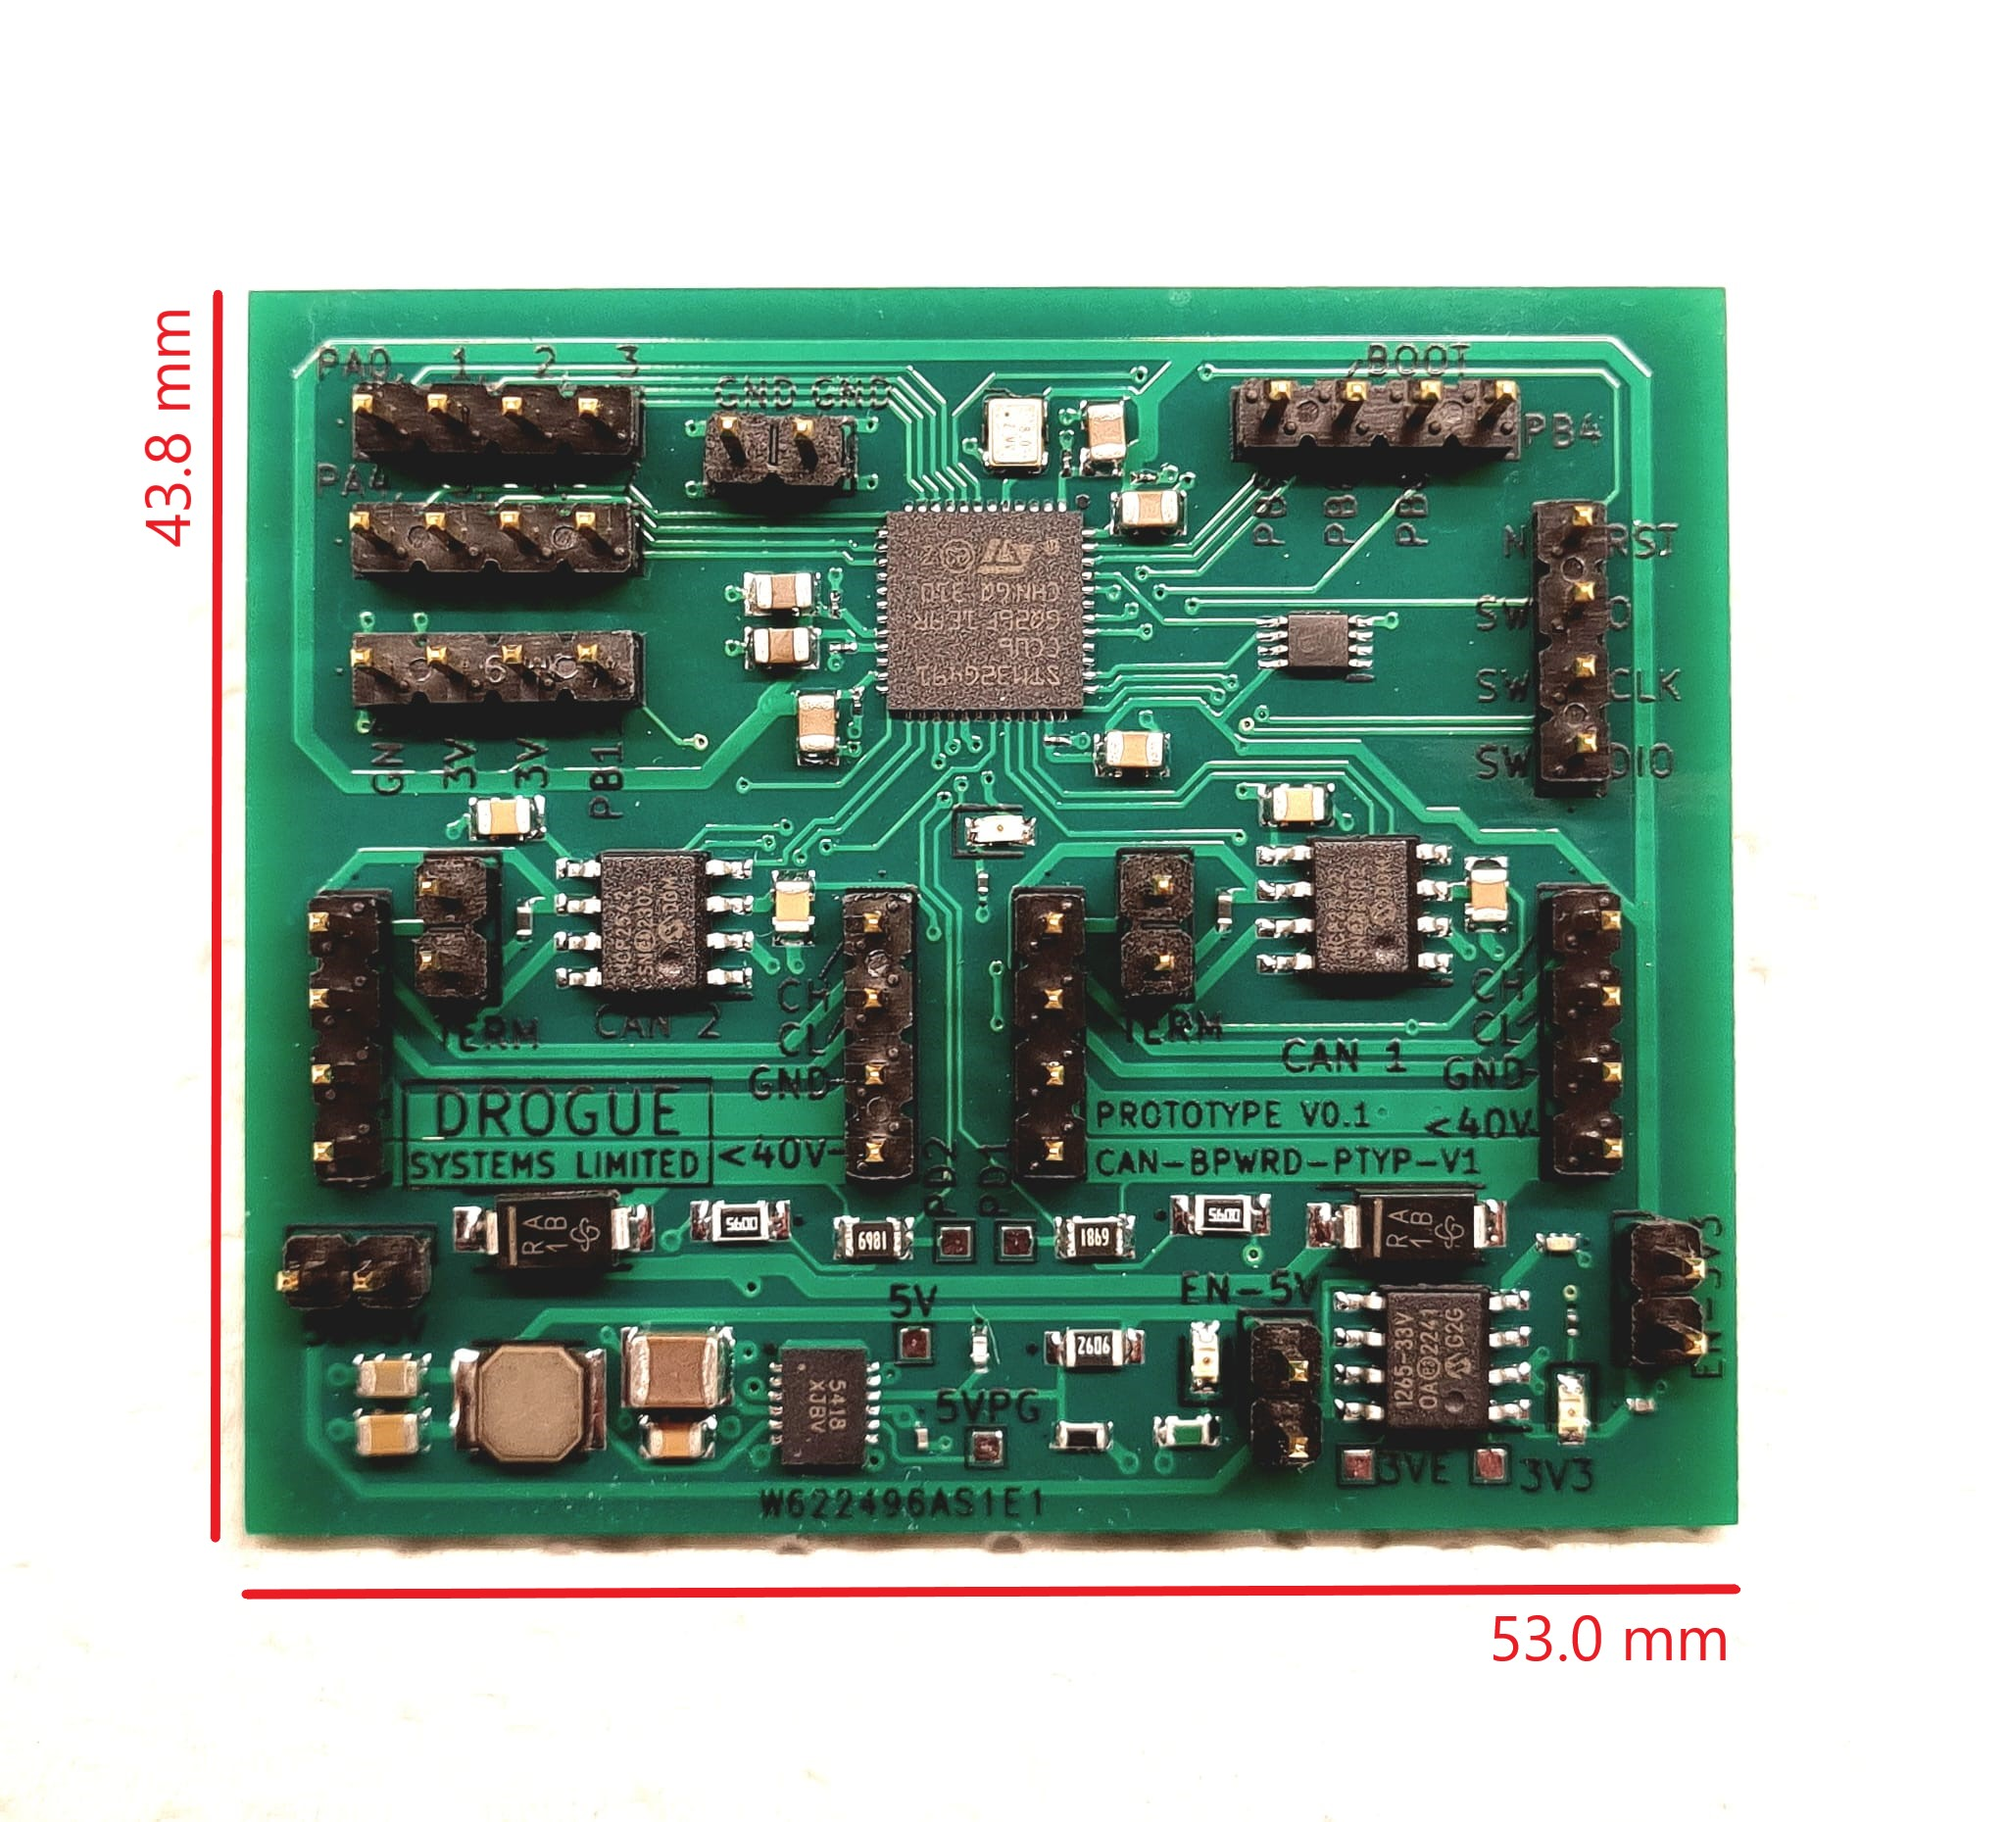
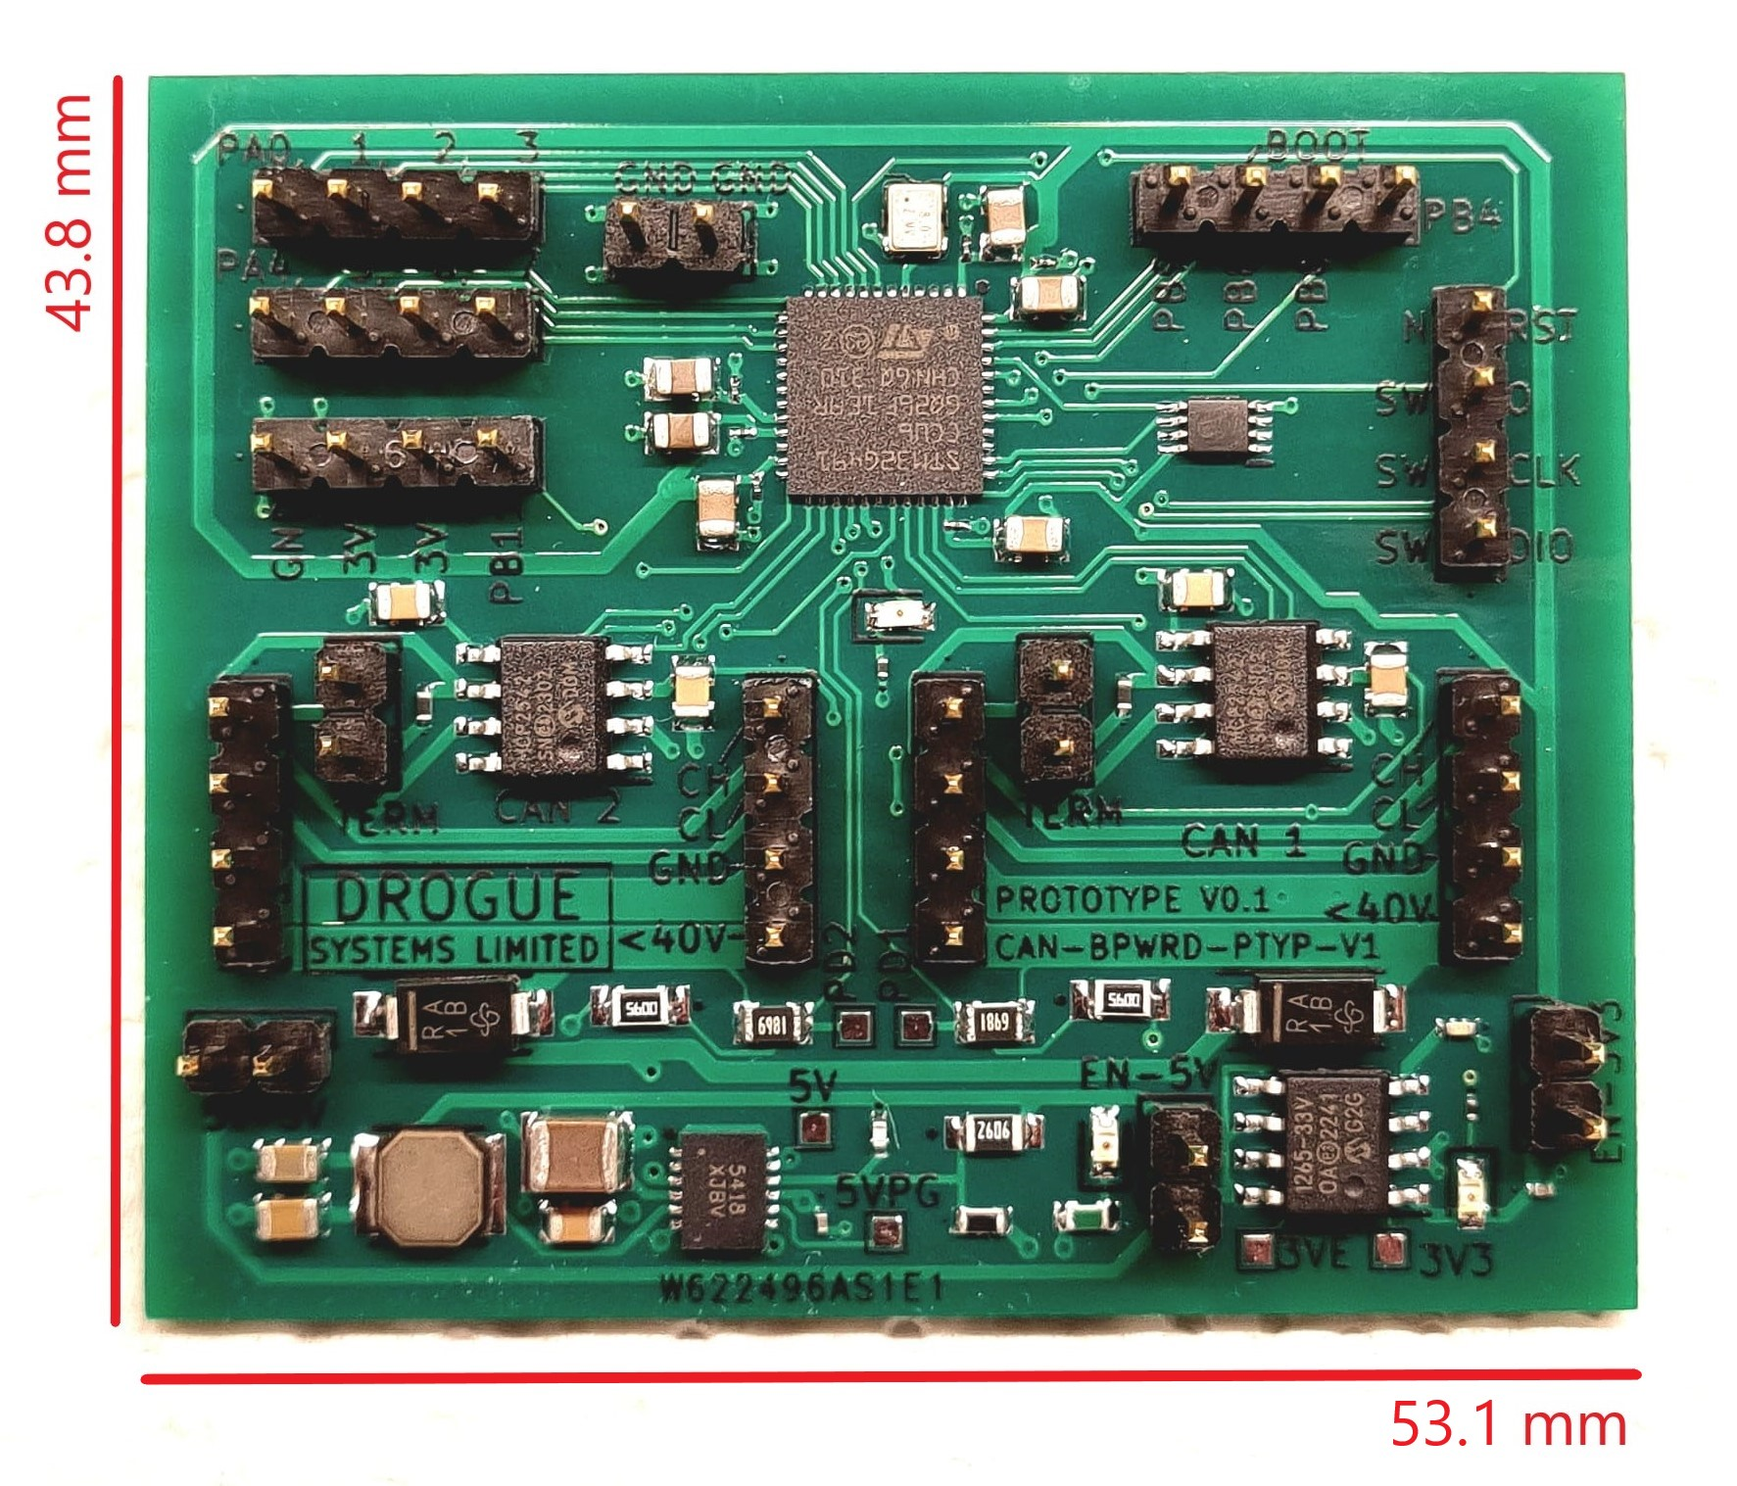
content

diff --git a/pages/drogue_can_bpwrd/drogue_can_bpwrd.md b/pages/drogue_can_bpwrd/drogue_can_bpwrd.md
@@ -11,13 +11,14 @@ folder: drogue_can_bpwrd
 
 ### 1.0 Images
 
-{% include image.html file="drogue_can_bpwrd/CAN-BPWRD_img1.jpg" alt="Image of the CAN-BPWRD-V0.1 Development Board" caption="Image of the CAN-BPWRD-V0.1 Board" max-width="400"%}
-{% include image.html file="drogue_can_bpwrd/CAN-BPWRD_img2.jpg" alt="Image of the CAN-BPWRD-V0.1 Development Board" caption="Image of the CAN-BPWRD-V0.1 Board with D-SUB converter cable" max-width="400"%}
+{% include image.html file="drogue_can_bpwrd/CAN-BPWRD_img1.jpg" alt="Image of the CAN-BPWRD-V0.1 Development Board" caption="Image of the CAN-BPWRD-V0.1 Board" max-width="600"%}
+{% include image.html file="drogue_can_bpwrd/CAN-BPWRD_img2.jpg" alt="Image of the CAN-BPWRD-V0.1 Development Board" caption="Image of the CAN-BPWRD-V0.1 Board with D-SUB converter cable" max-width="600"%}
 
-
+<div><br></div>
 
 ### 2.0 Description
 
+<div><br></div>
 
 The Drogue Systems CAN-BPWRD is a development board based on the STM32G491 microcontroller unit (MCU). It has 21 I/O pins, enabling the use of UART, SPI, I2C, Timers, PWM, ADC, and of course: CAN.
 
@@ -43,10 +44,12 @@ Designed to be fully compliant with the [*UCANPHY specification*](drogue_can_bpw
 The CAN-BPWRD development board is [*compatible with Cyphal/CAN*](drogue_can_bpwrd_cyphal.html) and can be [*programmed in multiple frameworks*](drogue_can_bpwrd_programming.html) (STM32Cube HAL, Arduino, libopencm3, CMSIS) depending on your preference.
 
 
+<div><br><br></div>
 
 
 ### 3.0 Basic Specifications
 
+<div><br></div>
 
 - STM32G491CCU6 MCU (up to 168 MHz)
 - 3.3V logic level on I/O pins
@@ -61,13 +64,16 @@ The CAN-BPWRD development board is [*compatible with Cyphal/CAN*](drogue_can_bpw
 - Program controllable LED
 
 
+<div><br><br></div>
 
 ### 3.1 Physical Specifications
 
+<div><br></div>
+
 The development board weights approximately 12g.
 
-It measures 53.0mm in width, and 43.8mm in height - when looking at the board top down.
+It measures 53.1mm in width, and 43.8mm in height - when looking at the board top down.
 
-{% include image.html file="drogue_can_bpwrd/CAN-BPWRD_dimensions.jpg" alt="CAN-BPWRD Development Board with annotated dimensions" caption="CAN-BPWRD Development Board with annotated dimensions" max-width="400"%}
+{% include image.html file="drogue_can_bpwrd/CAN-BPWRD_dimensions.jpg" alt="CAN-BPWRD Development Board with annotated dimensions" caption="CAN-BPWRD Development Board with annotated dimensions" max-width="600"%}
 
 {% include links.html %}

diff --git a/pages/drogue_can_bpwrd/drogue_can_bpwrd_pinout.md b/pages/drogue_can_bpwrd/drogue_can_bpwrd_pinout.md
@@ -59,7 +59,7 @@ If you would like to power the CAN-BPWRD development board from a lower voltage 
 
 Each CAN bus has pair of pins labeled 'TERM', these pins are intended to be optionally shorted together using a jumper to add a termination resistor across the CAN data lines.
 
-{% include image.html file="drogue_can_bpwrd/CAN-BPWRD_term.jpg" alt="CAN-BPWRD Image with Annotated Pinout of CAN 'TERM' Pins" caption="CAN-BPWRD Image with Annotated Pinout of CAN 'TERM' Pins" max-width="700"%}
+{% include image.html file="drogue_can_bpwrd/CAN-BPWRD_term.jpg" alt="CAN-BPWRD Image with Annotated Pinout of CAN 'TERM' Pins" caption="CAN-BPWRD Image with Annotated Pinout of CAN 'TERM' Pins" max-width="500"%}
 
 See the [CAN-BPWRD CAN documentation page](drogue_can_bpwrd_can.html) for more information on this function.
 
